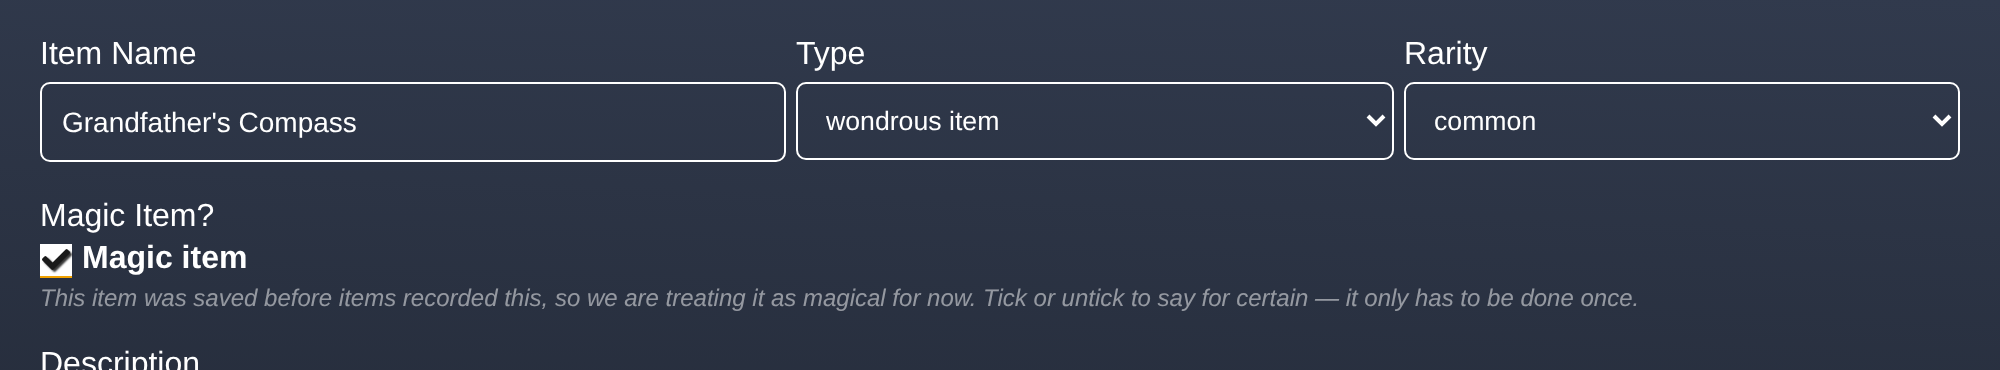
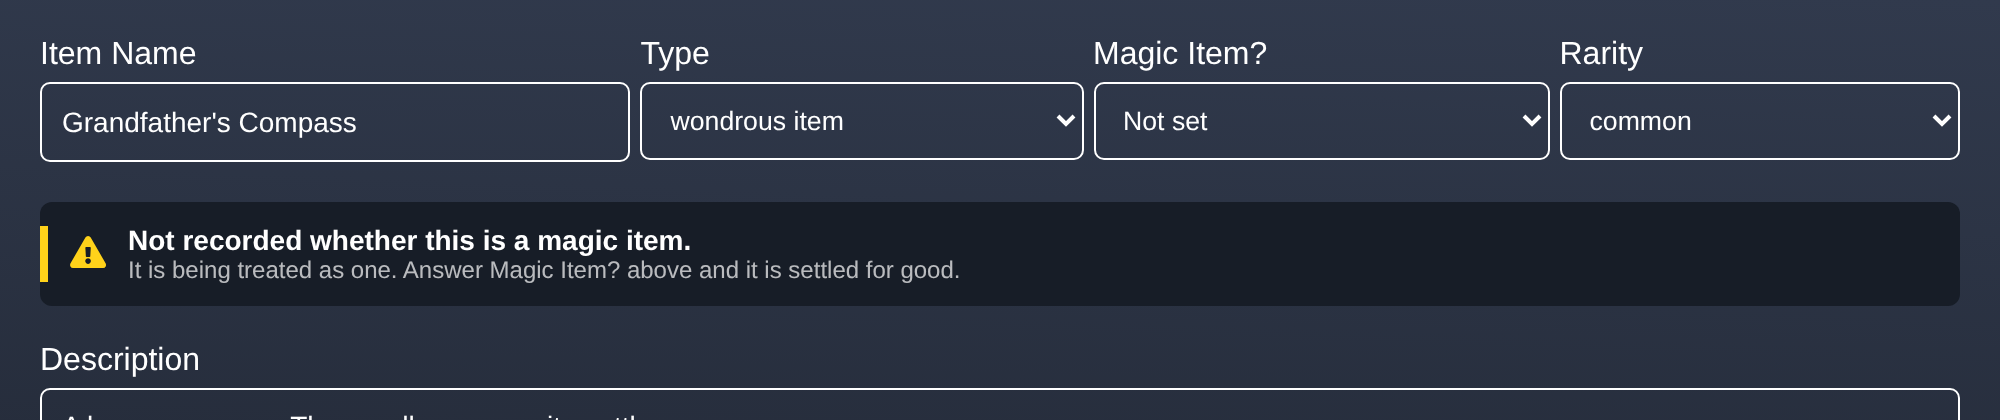
Make Magic Item? a dropdown that answers its own label
"Magic Item?" with an unticked box captioned "Mundane item" put a question and
a state next to each other and let them contradict — and the explanation under
it was opacity-5 italic on a dark background, effectively invisible.

It is now a dropdown sitting in the same row as Type and Rarity, using the same
control the fields either side of it use: Yes / No — mundane. A third option,
"Not set", appears only while an item is still unclassified, so a legacy item
shows the truth instead of implying someone already answered; it disappears the
moment they choose. Rarity stays last in the row, so it appearing and vanishing
with the answer never reflows its neighbours.

Both explanations move out of the invisible italics and into health-card rows
at the warning tier — the same treatment the held-properties notice already
used, so every "attention, not an error" line on this page looks alike:

- unreviewed: "Not recorded whether this is a magic item." / "It is being
  treated as one. Answer Magic Item? above and it is settled for good."
- mundane with magic still on it: unchanged, retargeted at the dropdown.

The per-state prose for the two settled answers is gone entirely. Picking
"No — mundane" visibly drops Rarity, Attunement and the bonus grids off the
form, which says it better than a sentence did.

set-item-kind replaces toggle-item-magical? and still writes an explicit
boolean; "Not set" removes the key rather than storing a third value, so an
[…]

diff --git a/CHANGELOG.md b/CHANGELOG.md
@@ -24,6 +24,11 @@
   which is the only thing that retires the guess.
 
 ### Changed
+- **Magic Item? is a dropdown, alongside Type and Rarity** — it was a checkbox
+  labelled "Magic Item?" whose caption read "Mundane item", so the question and
+  the answer contradicted each other. Now it answers its own label: Yes /
+  No — mundane, plus a "Not set" option that only appears while an item is
+  still unclassified and disappears once someone chooses.
 - **The item builder only offers magical fields to magic items** — rarity,
   attunement, magical attack/damage/AC bonuses and the ability, save, speed,
   resistance and immunity grids appear only when Magic Item? is ticked. Name,
@@ -33,9 +38,10 @@
   magical properties stop applying but stay on the item, and a notice names
   what is being held ("attunement, modifiers, an attack bonus"). Ticking the
   box again brings them all back; removing them for good takes a deliberate
-  second click. The notice uses the `health-card` primitives from
-  `feature/content-library-management` at the warning tier, so an
-  "attention, not an error" signal looks the same wherever it appears. Nothing on the automatic path can reach this state: an item
+  second click. That notice, and the "not recorded yet" one, use the
+  `health-card` primitives from `feature/content-library-management` at the
+  warning tier, so an "attention, not an error" signal looks the same wherever
+  it appears — replacing near-invisible `opacity-5` italic hints. Nothing on the automatic path can reach this state: an item
   classification calls mundane on its own has no magical properties by
   definition.
 - **Reclassified items stay resolvable where characters already stored them** —
